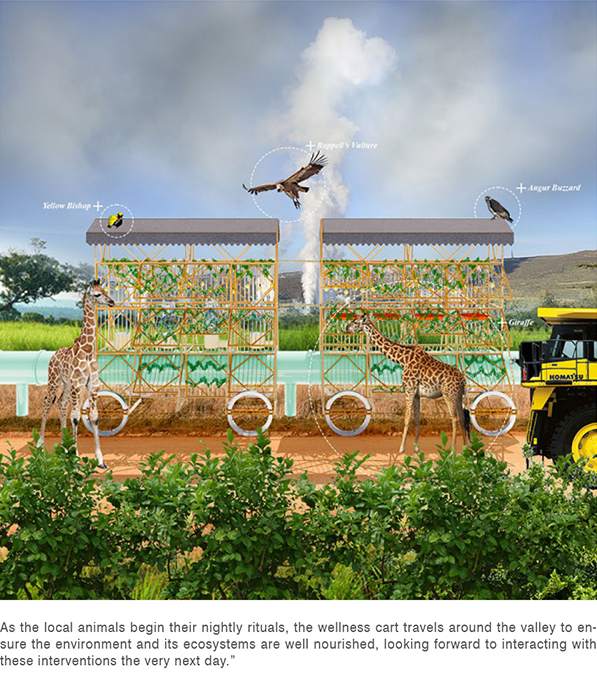
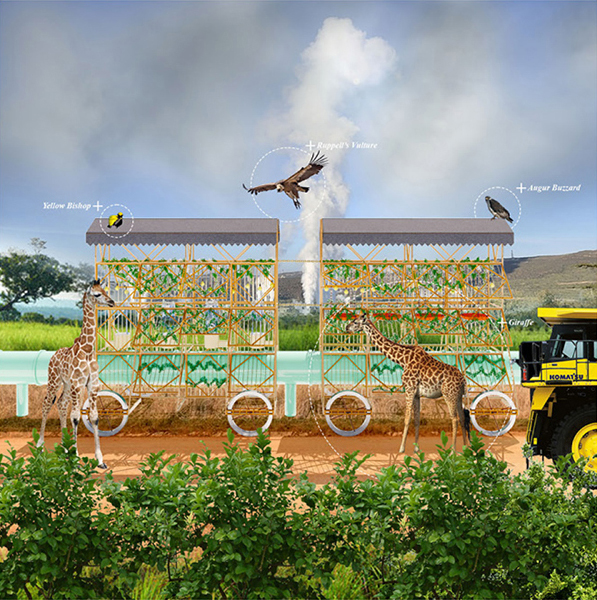
Finished Olkaria - FOR NOW

diff --git a/Desktop/portfolio/src/pages/work/Olkaria.jsx b/Desktop/portfolio/src/pages/work/Olkaria.jsx
@@ -23,6 +23,12 @@ import perspective01 from '../../assets/olkaria/perspective01.jpg'
 import perspective02 from '../../assets/olkaria/perspective02.jpg'
 import perspective03 from '../../assets/olkaria/perspective03.jpg'
 
+import render01 from '../../assets/olkaria/render01.jpg'
+import render02 from '../../assets/olkaria/render02.jpg'
+import render03 from '../../assets/olkaria/render03.jpg'
+import render04 from '../../assets/olkaria/render04.jpg'
+import render05 from '../../assets/olkaria/render05.jpg'
+
 import TOO00 from '../../assets/olkaria/TOO.webp'
 import TOO01 from '../../assets/olkaria/TOO01.webp'
 import TOO02 from '../../assets/olkaria/TOO02.webp'
@@ -87,12 +93,25 @@ import booklet52 from '../../assets/olkaria/booklet52.jpg'
 
 import cosmogram from '../../assets/olkaria/cosmogram.jpg'
 
+import timelocation01 from '../../assets/olkaria/timelocation.jpg'
+import timelocation02 from '../../assets/olkaria/timelocation2.jpg'
+
+import intermediate from '../../assets/olkaria/intermediate.jpg'
+
 import axon from '../../assets/olkaria/axon.jpg'
 
 import section from '../../assets/olkaria/section.jpg'
 
 const axons = [
   axon
+]
+
+const timelocations = [
+  timelocation01, timelocation02
+]
+
+const sections = [
+  section
 ]
 
 const bookcovers = [
@@ -103,8 +122,16 @@ const actions = [
   action01, action02, action03, action04, action05, action06, action07
 ]
 
+const intermediates = [
+  intermediate
+]
+
 const perspectives = [
   perspective01, perspective02, perspective03
+]
+
+const renders = [
+  render01, render02, render03, render04, render05
 ]
 
 const TOO = [
@@ -133,7 +160,6 @@ const cosmograms = [
 const Olkaria = () => {
   return (
     <> 
-
       <Gallery
         title="Hacking the Steam"
         subtitle="Imagining Playful New Possibilities for the Geothermal Infrastructure in Olkaria, Kenya"
@@ -141,17 +167,17 @@ const Olkaria = () => {
         caption="Advanced VI Studio: Capitalocene Energetic Landscapes | Columbia University GSAPP | Instructors: Mireia Luzarraga, Alejandro Muino, Andrea Molina. 
         Collaborator: Carley Pasqualotto, Yifei Yuan"
       />
-<div className="mt-14 mb-2">
-      <FlexGallery
-        title=""
-        columns={4}
-        gap={18}
-        images={[
-          { src: bookcover01, span: 2 },
-          { src: bookcover02, span: 2 },
-        ]}
-      />
-</div>
+      <div className="mt-14 mb-2">
+        <FlexGallery
+          title=""
+          columns={4}
+          gap={18}
+          images={[
+            { src: bookcover01, span: 2 },
+            { src: bookcover02, span: 2 },
+          ]}
+        />
+      </div>
 
 
       <div className="flex flex-col items-center justify-center">
@@ -172,8 +198,26 @@ const Olkaria = () => {
         />
 
               </div>
+              <Gallery
+        subtitle="Hacking the Steam: Story Told Through Mapping"
+      />
+
+      <div className="flex flex-col items-center">
+      <iframe
+        src="https://storymaps.arcgis.com/stories/ccbf383e36e940d89a4b043367b36f38"
+        width="100%"
+        height="720"
+        className="my-10 flex flex-col items-center justify-center">
+
+      </iframe>
 
 
+      </div>
+
+
+      <Gallery
+        subtitle="Hacking the Steam: Story Told Through Seven Drawings"
+      />
         <div className="flex flex-row justify-center mt-15">
           <div className="mx-auto max-w-[1000px]">
             <div className="grid grid-cols-5 items-center">
@@ -229,7 +273,33 @@ const Olkaria = () => {
             <div className="grid grid-cols-5 items-center">
               <div className="text-xs text-justify col-span-2 mr-12">
                 <p className="text-xl font-italiana">
-                  DRAWING 3 - ACTION DIAGRAMS
+                  DRAWING 3 - TIME AND LOCATION
+
+                  </p>
+                  <br />
+                  <br />
+                    Since geothermal potential was found in the 1950s, 
+                    over 300 wells have been drilled to date both inside and around Hell’s Gate National Park to harness the geothermal energy underground. 
+                    These wells are left open to the air for monitoring, allowing steam with traces of hydrogen sulfide, carbon dioxide, boron, arsenic, mercury, and more to linger in the air. 
+                    At certain ranges, these traces are dangerous to local wildlife and the community.
+                    Residents of Olkaria and fieldworkers of KenGen often complain of respiratory illnesses due to the air pollution from the geothermal steam. 
+                    What is described to be a deafening 24-hour noise, these wells also produce immense amounts of noise pollution which seeps out and disturbs animal habitats and migratory patterns. 
+              </div>
+                <Slideshow
+                  images={timelocations}
+                  width={600}
+                  height={680}
+                />
+            </div>
+          </div>
+        </div>
+
+        <div className="flex flex-row justify-center">
+          <div className="mx-auto max-w-[1000px]">
+            <div className="grid grid-cols-5 items-center">
+              <div className="text-xs text-justify col-span-2 mr-12">
+                <p className="text-xl font-italiana">
+                  DRAWING 4 - ACTION DIAGRAMS
 
                   </p>
                   <br />
@@ -243,22 +313,169 @@ const Olkaria = () => {
                   This would then widen the extent of undisturbed environments. And then the individual trains can provide a space of safe cohabitation for the agents affected by the development.
                   Allowing them physical corridors to freely travel through the site.
               </div>
-                <Slideshow
-                  images={actions}
-                  width={600}
-                  height={680}
-                />
+            <Slideshow
+              images={actions} 
+              width={600}
+              height={680}
+              className="col-span-3"
+            />
             </div>
           </div>
+        </div>
+
+
+
+        <div className="flex flex-row justify-center">
+          <div className="mx-auto max-w-[1000px]">
+            <div className="grid grid-cols-5 items-center">
+              <div className="text-xs text-justify col-span-2 mr-12">
+                <p className="text-xl font-italiana">
+                  DRAWING 5 - INTERMEDIATE CONTEXT
+                  </p>
+                  <br />
+                  <br />
+                    On the right side you can see how these abstract relationships and programs can translate to the physical forms. 
+                    This is a small part of the Olkaria development located near Well 907A showing potential placement and configurations of the 
+                    intervention in relation to their surroundings. 
+              </div>
+            <Slideshow
+              images={intermediates} 
+              width={600}
+              height={680}
+              className="col-span-3"
+            />
+            </div>
+          </div>
+        </div>
+
+
+          <div className="mx-auto max-w-[1000px]">
+            <div className="items-center">
+              <div className="text-xs text-left items-baseline col-span-5 mr-12">
+                <p className="text-xl font-italiana">
+                  DRAWING 6 - AXON
+                  </p>
+                  <br />
+                  <br />
+              </div>
+            </div>
         </div>
       <Gallery
         caption=" "
         images = {axons}
       />
-        <Gallery
-          images = {perspectives}
-        />
+      
+          <div className="mt-15 mx-auto max-w-[1000px]">
+            <div className="items-center">
+              <div className="text-xs text-justify items-baseline col-span-5 ">
+                <p className="text-xl font-italiana">
+                  DRAWING 7 - SITE SECTION
+                  </p>
+                  <br />
+                  <br />
+                  To combat habitat fragmentation and promote environmental justice, our design is strategically devised to live and move upon the existing and future expansions of the geothermal pipes,  harnessing the energy that will be used to benefit the local ecosystems of Hell’s Gate National Park.
+The section shows the inside secrets of the geothermal steam hacking system and how our intervention is situated in the vast landscape of Olkaria. The existing geothermal pipes that are strategically carrying steam waste are drilled with holes at regular intervals where a valve is placed that connect 
+and disconnect to the structure disconnect on demand, clipping into receiving pipes in the trains floor plates for easy access.
+Each design cart is chained together to form a longer system of continuous steam hacking programs such as steam kitchen and portable water station.  
+It leaves traces of life as it leaves water flash and fall-over plants along where it moves. It will also disperse living trash from the steam kitchen and bird sanctuary into the near surroundings, creating a map of liveliness and recombination. 
+              </div>
+            </div>
+        </div>
+      <Gallery
+        caption=" "
+        images = {[section]}
+      />
 
+      <Gallery
+        subtitle="Hacking the Steam: Story Told Through Perspectives"
+      />
+
+        <div className="mt-10 flex flex-row justify-center">
+          <div className="mx-auto max-w-[1000px]">
+            <div className="grid grid-cols-5 items-center">
+              <Gallery
+                images={[render01]} 
+                className="col-span-3"
+              />
+              <div className="ml-10 text-xs text-justify col-span-2">
+                <p className="text-xl font-italiana">
+                  A STORY: THROUGHOUT THE DAY
+                  <br />
+                  <br />
+                  1
+                  <br />
+                  </p>
+                  <br />
+                  <br />
+                    As the wells have excreted steam throughout the night, 
+                    the wellhead towers have been able to convert enough 
+                    steam into potable water to be consumed by the local 
+                    ecosystems residing in the environment and stored 
+                    at the water station for activities that will happen throughout the day 
+              </div>
+              <Gallery
+                images={[render02]} 
+                className="col-span-3"
+              />
+              <div className="ml-10 text-xs text-justify col-span-2">
+                <p className="text-xl font-italiana">
+                  2
+                  </p>
+                  <br />
+                  <br />
+                    As the wells have excreted steam throughout the night, 
+                    the wellhead towers have been able to convert enough 
+                    steam into potable water to be consumed by the local 
+                    ecosystems residing in the environment and stored 
+                    at the water station for activities that will happen throughout the day 
+              </div>
+              <Gallery 
+              images={[render03]}
+              className="col-span-3"
+              />
+            <div className="ml-10 text-xs text-justify col-span-2">
+              <p className="text-xl font-italiana">
+                3
+              </p>
+                <br />
+                <br />
+                    The greenhouse strategically hacks the steam to 
+                    remain set at a temperature of 82 degrees Fahrenheit, ensuring the local crops, such as baby corn, pak choi, 
+                    courgettes, and more are ready to be eaten during the gathering ceremony for the local Maasai Tribe. 
+                    Ruppell’s vultures know this time of day as they await in the bird sanctuary for their scraps they will receive from composted meals from the community. 
+            </div>
+                          <Gallery 
+              images={[render04]}
+              className="col-span-3"
+              />
+            <div className="ml-10 text-xs text-justify col-span-2">
+              <p className="text-xl font-italiana">
+                4
+              </p>
+                <br />
+                <br />
+                    After nourishing themselves, local community members plan to travel down the landscape to depart back to their homes, 
+                    where they observe the vast Olkaria landscapes, interacting with local fauna who are feeding off of the facade. 
+            </div>
+                          <Gallery 
+              images={[render05]}
+              className="col-span-3"
+              />
+            <div className="ml-10 text-xs text-justify col-span-2">
+              <p className="text-xl font-italiana">
+                5
+              </p>
+                <br />
+                <br />
+                    As the local animals begin their nightly rituals, the wellness cart travels around the valley 
+                    to ensure the environment and its ecosystems are well nourished, looking forward to interacting with 
+                    these interventions the very next day.”
+            </div>
+
+            </div>
+          </div>
+        </div>
+        
     </>
   )
 }

diff --git a/Desktop/portfolio/src/components/CaptionGallery.jsx b/Desktop/portfolio/src/components/CaptionGallery.jsx
@@ -110,7 +110,7 @@ export default function CaptionGallery({
 
   return (
     <div ref={rootRef} className={className}>
-      <div className="my-20 w-250 mix-blend-multiply">
+      <div className="mt-15 w-250 mix-blend-multiply">
         <div
           style={{
             display: "flex",
@@ -140,7 +140,7 @@ export default function CaptionGallery({
                   {/* Only the caption itself gets shadow-card */}
               
                   <div className="text-justify text-gray-700 py-3 mr-8">
-                    <div className="shadow-card text-sm py-3 mr-2">
+                    <div className="font-italiana text-xl py-3 mr-2">
                       {title}
                     </div>
                     <div className="my-6 text-xs">

diff --git a/Desktop/portfolio/src/components/Marquee.jsx b/Desktop/portfolio/src/components/Marquee.jsx
@@ -17,7 +17,7 @@ import React, { useMemo } from "react";
 export default function Marquee({
   images = [],
   height = 400,
-  speed = 80,
+  speed = 100,
   gap = 0,
   className = "",
   pauseOnHover = true,
@@ -54,7 +54,7 @@ export default function Marquee({
 
   return (
     <div
-      className={`w-240 overflow-hidden my-20 mix-blend-multiply ${className}`}
+      className={`w-250 overflow-hidden my-20 mix-blend-multiply ${className}`}
       style={maskStyle}
       aria-label="Scrolling image band"
     >

diff --git a/Desktop/portfolio/src/components/Grid.jsx b/Desktop/portfolio/src/components/Grid.jsx
@@ -68,7 +68,7 @@ const items = [
 
   { image: penn,
     penn, title: "Penn Station Reconstruction", 
-    subtitle: "Reconstructing the Busiest Station in the World", 
+    subtitle: "Redesigning the Busiest Station in the World", 
     keywords: "Professional, Transit, Infrastructure, Federal Project, NYC, Three.js, Rhino 3D, Grasshopper, Parametric Design" 
   },
 

diff --git a/Desktop/portfolio/src/index.css b/Desktop/portfolio/src/index.css
@@ -53,7 +53,7 @@ canvas {
   flex-direction: column;
   max-width: 1000px;
   margin: 0 auto;
-  padding: 0 1rem;
+
 }
 
 .image-item {
